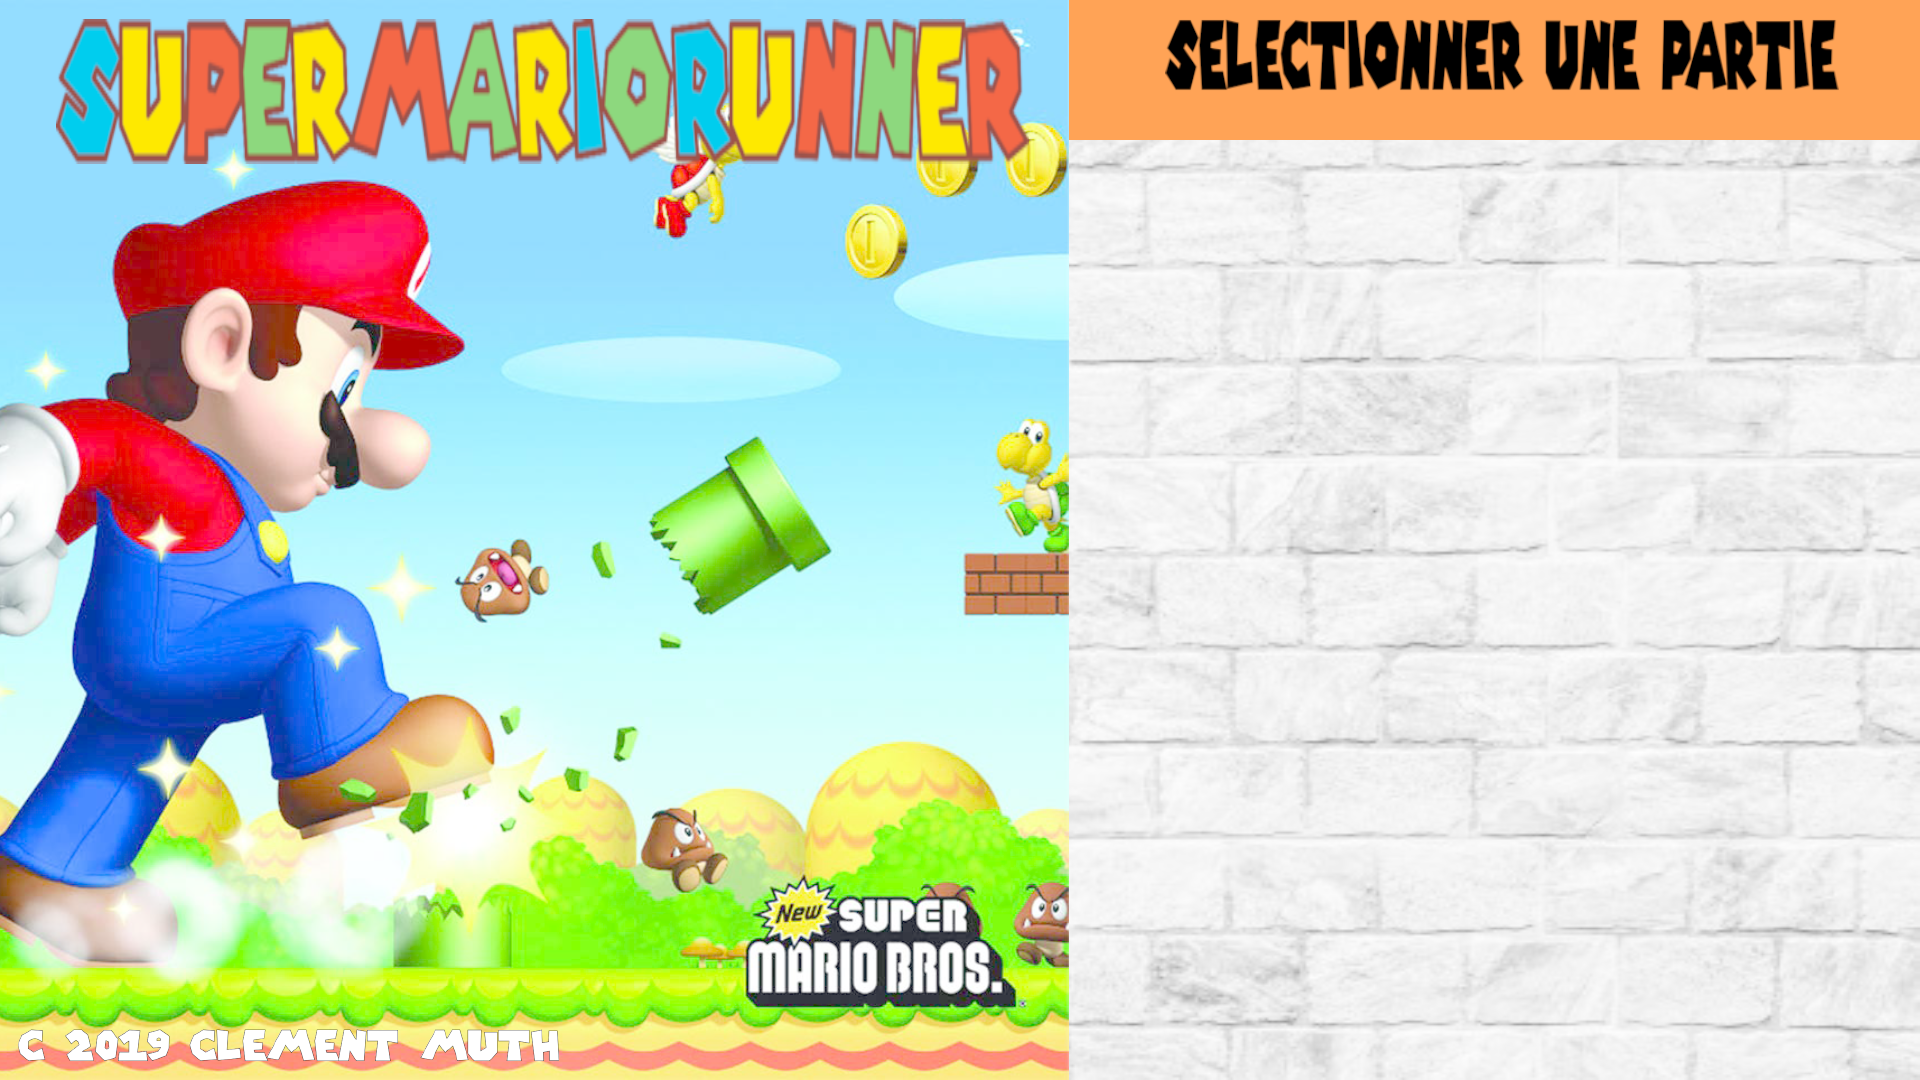
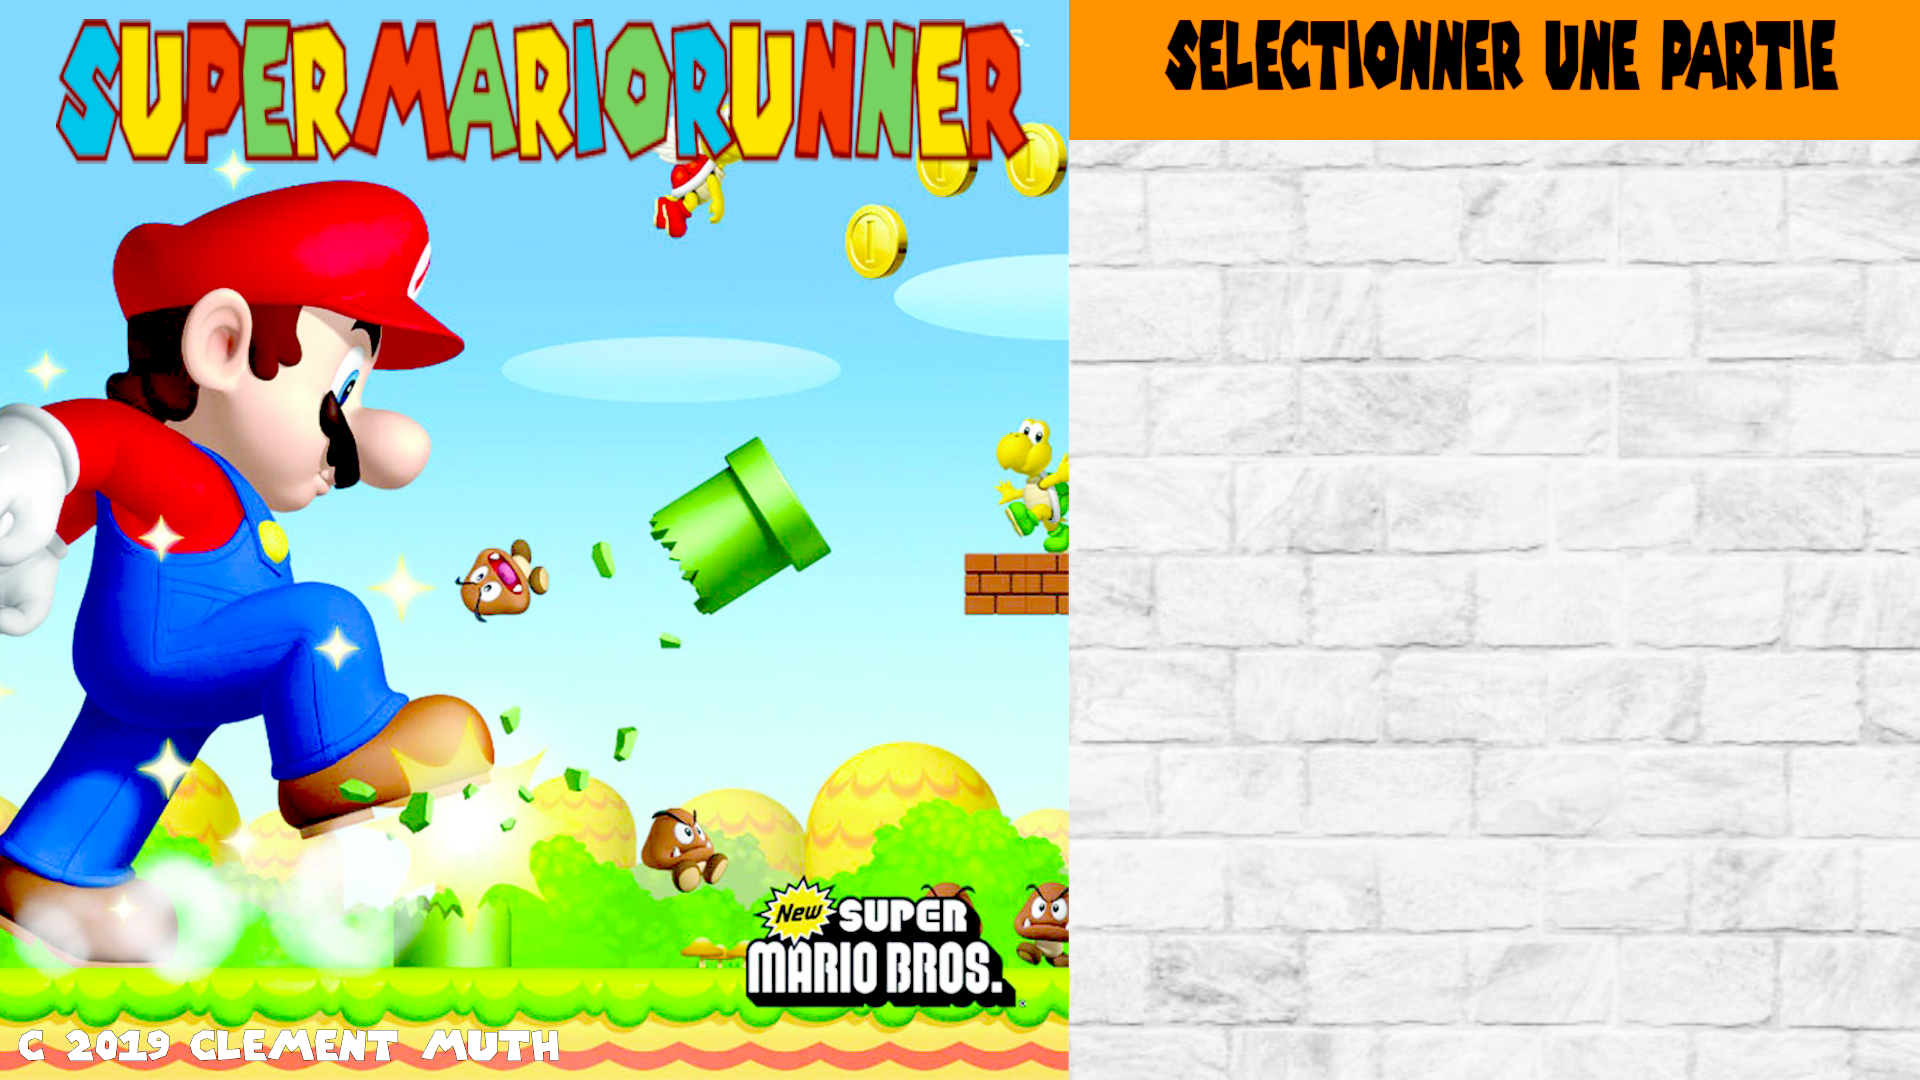
[ADD] intro

diff --git a/sources/event/menu/hover_button.c b/sources/event/menu/hover_button.c
@@ -7,42 +7,54 @@
 
 #include "runner.h"
 
-static _Bool start_game(mario *mario)
+static void start_game(mario *mario)
 {
     TRANS.scale.pipe_game.x = 1.4;
     TRANS.scale.pipe_game.y = .4;
-    return (true);
 }
 
-static _Bool new_game(mario *mario)
+static void new_game(mario *mario)
 {
     TRANS.scale.pipe_new.x = 1.4;
     TRANS.scale.pipe_new.y = .4;
-    return (true);
 }
 
-static _Bool generic(mario *mario)
+static void generic(mario *mario)
 {
     TRANS.scale.pipe_gen.x = 1.4;
     TRANS.scale.pipe_gen.y = .4;
-    return (true);
 }
 
-static _Bool option(mario *mario)
+static void option(mario *mario)
 {
     TRANS.scale.pipe_op.x = 1.4;
     TRANS.scale.pipe_op.y = .4;
-    return (true);
 }
 
 void mouse_hover(mario *mario)
 {
     if (MOUSE_HOVER_PIPE_START)
         (start_game(mario));
+    else {
+        TRANS.scale.pipe_game.x = 1;
+        TRANS.scale.pipe_game.y = .4;
+    }
     if (MOUSE_HOVER_PIPE_NEW)
         (new_game(mario));
+    else {
+        TRANS.scale.pipe_new.x = 1;
+        TRANS.scale.pipe_new.y = .4;
+    }
     if (MOUSE_HOVER_PIPE_GEN)
         (generic(mario));
+    else {
+        TRANS.scale.pipe_gen.x = 1;
+        TRANS.scale.pipe_gen.y = .4;
+    }
     if (MOUSE_HOVER_PIPE_OP)
         (option(mario));
+    else {
+        TRANS.scale.pipe_op.x = 1;
+        TRANS.scale.pipe_op.y = .4;
+    }
 }

diff --git a/include/function.h b/include/function.h
@@ -49,7 +49,7 @@ void sfSpriteMenuCreate(mario *mario);
 ///
 /// \return boolean
 ////////////////////////////////////////////////////////////
-_Bool sfInitMenu(mario *mario);
+void menu_init(mario *mario);
 
 
 ////////////////////////////////////////////////////////////
@@ -60,7 +60,7 @@ _Bool sfInitMenu(mario *mario);
 ///
 /// \return boolean
 ////////////////////////////////////////////////////////////
-_Bool sfInitGame(mario *mario);
+void game_init(mario *mario);
 
 void mouse_hover(mario *mario);
 
@@ -74,7 +74,7 @@ _Bool destroy_menu(mario *mario);
 
 void event_start(mario *mario);
 
-_Bool game_loop(mario *mario);
+int game_loop(mario *mario);
 
 void intro(mario *mario);
 
@@ -87,5 +87,9 @@ void intro_init(mario *mario);
 void intro_do_transform(mario *mario);
 
 void intro_init_transform(mario *mario);
+
+void event_intro(mario *mario);
+
+int initialisation(mario *mario);
 
 #endif /* !FUNCTION_H_ */

diff --git a/sources/initialisation/basics.c b/sources/initialisation/basics.c
@@ -1,0 +1,35 @@
+/*
+** EPITECH PROJECT, 2019
+** MUL_my_runner_2019
+** File description:
+** basics
+*/
+
+#include "runner.h"
+
+void initialisation_scene(mario *mario)
+{
+    mario->scene = 0;
+    mario->const_event = 0;
+    INTRO.evt.clock = sfClock_create();
+}
+
+int initialisation(mario *mario)
+{
+    WINDOW.mode.width = 1920;
+    WINDOW.mode.height = 1080;
+    WINDOW.mode.bitsPerPixel = 32;
+    WINDOW.color.a = 255;
+    WINDOW.color.r = 235;
+    WINDOW.color.g = 235;
+    WINDOW.color.b = 235;
+    WINDOW.window = sfRenderWindow_create(mario->window.mode,
+    "Mario Runner", sfClose | sfFullscreen, NULL);
+    if (!WINDOW.window)
+        return (EXIT_ERROR);
+    initialisation_scene(mario);
+    menu_init(mario);
+    menu_init_transform(mario);
+    intro_init(mario);
+    return (EXIT_SUCCESS);
+}

diff --git a/sources/event/intro/event_intro.c b/sources/event/intro/event_intro.c
@@ -1,0 +1,26 @@
+/*
+** EPITECH PROJECT, 2019
+** MUL_my_runner_2019
+** File description:
+** event_gif
+*/
+
+#include "runner.h"
+
+void event_intro(mario *mario)
+{
+    INTRO.evt.time = sfClock_getElapsedTime(INTRO.evt.clock);
+    INTRO.evt.seconds = INTRO.evt.time.microseconds / 1000000.0;
+    if (INTRO.evt.seconds > .08) {
+        if (INTRO.texture.rect.left == 6720 && INTRO.texture.rect.top != 2700) {
+            INTRO.texture.rect.top += 540;
+            INTRO.texture.rect.left = 0;
+        } else {
+            INTRO.texture.rect.left += 960;
+        }
+        sfSprite_setTextureRect(INTRO.sprite.intro, INTRO.texture.rect);
+        sfClock_restart(INTRO.evt.clock);
+
+    } else if (INTRO.texture.rect.left >= 6720 && INTRO.texture.rect.top == 2700)
+        mario->scene = 1;
+}

diff --git a/sources/initialisation/main.c b/sources/initialisation/main.c
@@ -7,27 +7,14 @@
 
 #include "runner.h"
 
-static void init_window(mario *mario)
-{
-    WINDOW.mode.width = 1920;
-    WINDOW.mode.height = 1080;
-    WINDOW.mode.bitsPerPixel = 32;
-    WINDOW.color.a = 255;
-    WINDOW.color.r = 235;
-    WINDOW.color.g = 235;
-    WINDOW.color.b = 235;
-    WINDOW.window = sfRenderWindow_create(mario->window.mode,
-    "Mario Runner", sfFullscreen, NULL);
-}
-
 int main(void)
 {
     mario *mario = malloc(sizeof(mario) * 1000000);
 
-    mario->scene = 0;
-    sfInitMenu(mario);
-    intro_init(mario);
-    init_window(mario);
+    if (!mario)
+        return (EXIT_ERROR);
+    if (initialisation(mario) == 84)
+        return (EXIT_ERROR);
     game_loop(mario);
-    return (true);
+    return (EXIT_SUCCESS);
 }

diff --git a/sources/initialisation/game_loop.c b/sources/initialisation/game_loop.c
@@ -7,12 +7,17 @@
 
 #include "runner.h"
 
+static void (* event_fct[])(mario *mario) = {
+    event_intro,
+    event_start
+};
+
 static void manage_event(mario *mario)
 {
     sfEvent event;
 
     while (sfRenderWindow_pollEvent(WINDOW.window, &event)) {
-        event_start(mario);
+        event_fct[mario->const_event](mario);
         if (event.type == sfEvtClosed)
             sfRenderWindow_close(WINDOW.window);
     }
@@ -24,8 +29,9 @@ static void (* display_fct[])(mario *mario) = {
     game
 };
 
-_Bool game_loop(mario *mario)
+int game_loop(mario *mario)
 {
+    sfClock_restart(INTRO.evt.clock);
     while (sfRenderWindow_isOpen(WINDOW.window)) {
         manage_event(mario);
         sfRenderWindow_setFramerateLimit(WINDOW.window, 60);

diff --git a/sources/initialisation/create_intro.c b/sources/initialisation/create_intro.c
@@ -16,12 +16,18 @@
 
 static void intro_assembly(mario *mario)
 {
+    INTRO.texture.rect.height = 540;
+    INTRO.texture.rect.left = 0;
+    INTRO.texture.rect.top = 0;
+    INTRO.texture.rect.width = 960;
+
     sfSprite_setTexture(INTRO.sprite.intro, INTRO.texture.intro, sfFalse);
+    sfSprite_setTextureRect(INTRO.sprite.intro, INTRO.texture.rect);
 }
 
 static void intro_texture_create(mario *mario)
 {
-    INTRO.texture.intro = sfTexture_createFromFile(INTRO_VID1, NULL);
+    INTRO.texture.intro = sfTexture_createFromFile(INTRO_VID, NULL);
     intro_assembly(mario);
 }
 
@@ -34,4 +40,5 @@ static void intro_sprite_create(mario *mario)
 void intro_create(mario *mario)
 {
     intro_sprite_create(mario);
+    intro_do_transform(mario);
 }

diff --git a/include/struct.h b/include/struct.h
@@ -47,6 +47,8 @@ typedef struct
 typedef struct
 {
     sfTexture *intro;
+    sfTexture *intro2;
+    sfTexture *intro3;
     sfTexture *menu;
     sfTexture *pipe_game;
     sfTexture *pipe_new;
@@ -56,12 +58,15 @@ typedef struct
     sfTexture *new;
     sfTexture *gen;
     sfTexture *op;
+    sfIntRect rect;
 } texture;
 
 
 typedef struct
 {
-    _Bool is_menu;
+    sfTime time;
+    double seconds;
+    sfClock *clock;
 } evt;
 
 
@@ -89,7 +94,9 @@ typedef struct
 {
     sprite sprite;
     texture texture;
+    evt evt;
 } _intro;
+
 
 typedef struct
 {
@@ -98,6 +105,7 @@ typedef struct
     transform transform;
     _intro _intro;
     int scene;
+    int const_event;
 } mario;
 
 

diff --git a/include/define.h b/include/define.h
@@ -35,6 +35,12 @@
 ////////////////////////////////////////////////////////////
 #define false 1
 
+////////////////////////////////////////////////////////////
+/// \brief 2-Define returned 84 if an error occured
+///
+////////////////////////////////////////////////////////////
+#define EXIT_ERROR 84
+
 
 #define GAME_PARAMS window *window, _menu *_menu, transform *transform
 
@@ -71,7 +77,7 @@
 
 #define OP_BTN "assets/menu/op.png"
 
-#define INTRO_VID1 "assets/intro/intro1.jpg"
+#define INTRO_VID "assets/intro/intro.jpg"
 
 
 //////////////////////////////

diff --git a/sources/transformation/intro/intro_init_transform.c b/sources/transformation/intro/intro_init_transform.c
@@ -9,13 +9,14 @@
 
 static void set_scale(mario *mario)
 {
-
+    TRANS.scale.intro.x = 2;
+    TRANS.scale.intro.y = 2.1;
 }
 
 static void set_position(mario *mario)
 {
-    TRANS.position.intro.x = 460;
-    TRANS.position.intro.y = 260;
+    TRANS.position.intro.x = 0;
+    TRANS.position.intro.y = 0;
 }
 
 void intro_init_transform(mario *mario)

diff --git a/sources/initialisation/init_game_mod.c b/sources/initialisation/init_game_mod.c
@@ -12,13 +12,12 @@ void intro_init(mario *mario)
     intro_create(mario);
 }
 
-_Bool sfInitMenu(mario *mario)
+void menu_init(mario *mario)
 {
     sfSpriteMenuCreate(mario);
-    return (true);
 }
 
-_Bool sfInitGame(mario *mario)
+void game_init(mario *mario)
 {
-    return (true);
+    return;
 }

diff --git a/sources/transformation/menu/menu_do_transform.c b/sources/transformation/menu/menu_do_transform.c
@@ -41,7 +41,6 @@ static void sprite_set_scale(mario *mario)
 
 void menu_do_transform(mario *mario)
 {
-    menu_init_transform(mario);
     sprite_set_scale(mario);
     sprite_set_position(mario);
     sprite_set_rotate(mario);
